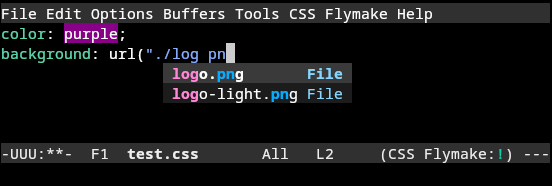
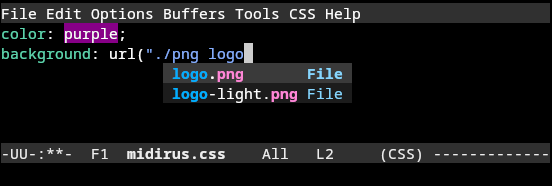
Tweak the og:image

diff --git a/content/emacs/tutorial.md b/content/emacs/tutorial.md
@@ -8,6 +8,11 @@ date: 2024-10-03
 
 There are many tutorials available but this one is mine where
 I cover sensible defaults to showcase the standard Emacs experience.
+
+:::{.hidden}
+![emacs-tut-corfu](media/emacs-tut-corfu.png)
+:::
+
 My goal is to guide you through setting up an IDE similar to VSCode from the ground up.
 I will also demonstrate how to use Emacs as a complete integrated computing environment,
 allowing you to read news, send emails, play media, and much more!
@@ -682,7 +687,7 @@ To use <kbd>SPC</kbd> for separating multiple orderless patterns
 > In that case, use `M-TAB`, that should always work.
 
 For reference, the example usage screenshot was produced by typing:\
-➡ `"./` <kbd>TAB</kbd> `log` <kbd>SPC</kbd> `pn`
+➡ `"./` <kbd>TAB</kbd> `png` <kbd>SPC</kbd> `logo`
 
 #### Automatic completion
 
@@ -701,7 +706,7 @@ Therefore, Corfu implements a custom key for in-buffer separator,
 which is set to `M-SPC` by default.
 
 For reference, the example usage screenshot was produced by typing:\
-➡ `"./` *pause* `log` <kbd>M-SPC</kbd> `pn`.
+➡ `"./` *pause* `png` <kbd>M-SPC</kbd> `logo`.
 
 Unfortunately, `M-SPC` conflicts with the GNOME Shell binding for window menu.
 Unless you need this GNOME key, you can disable it by running this
